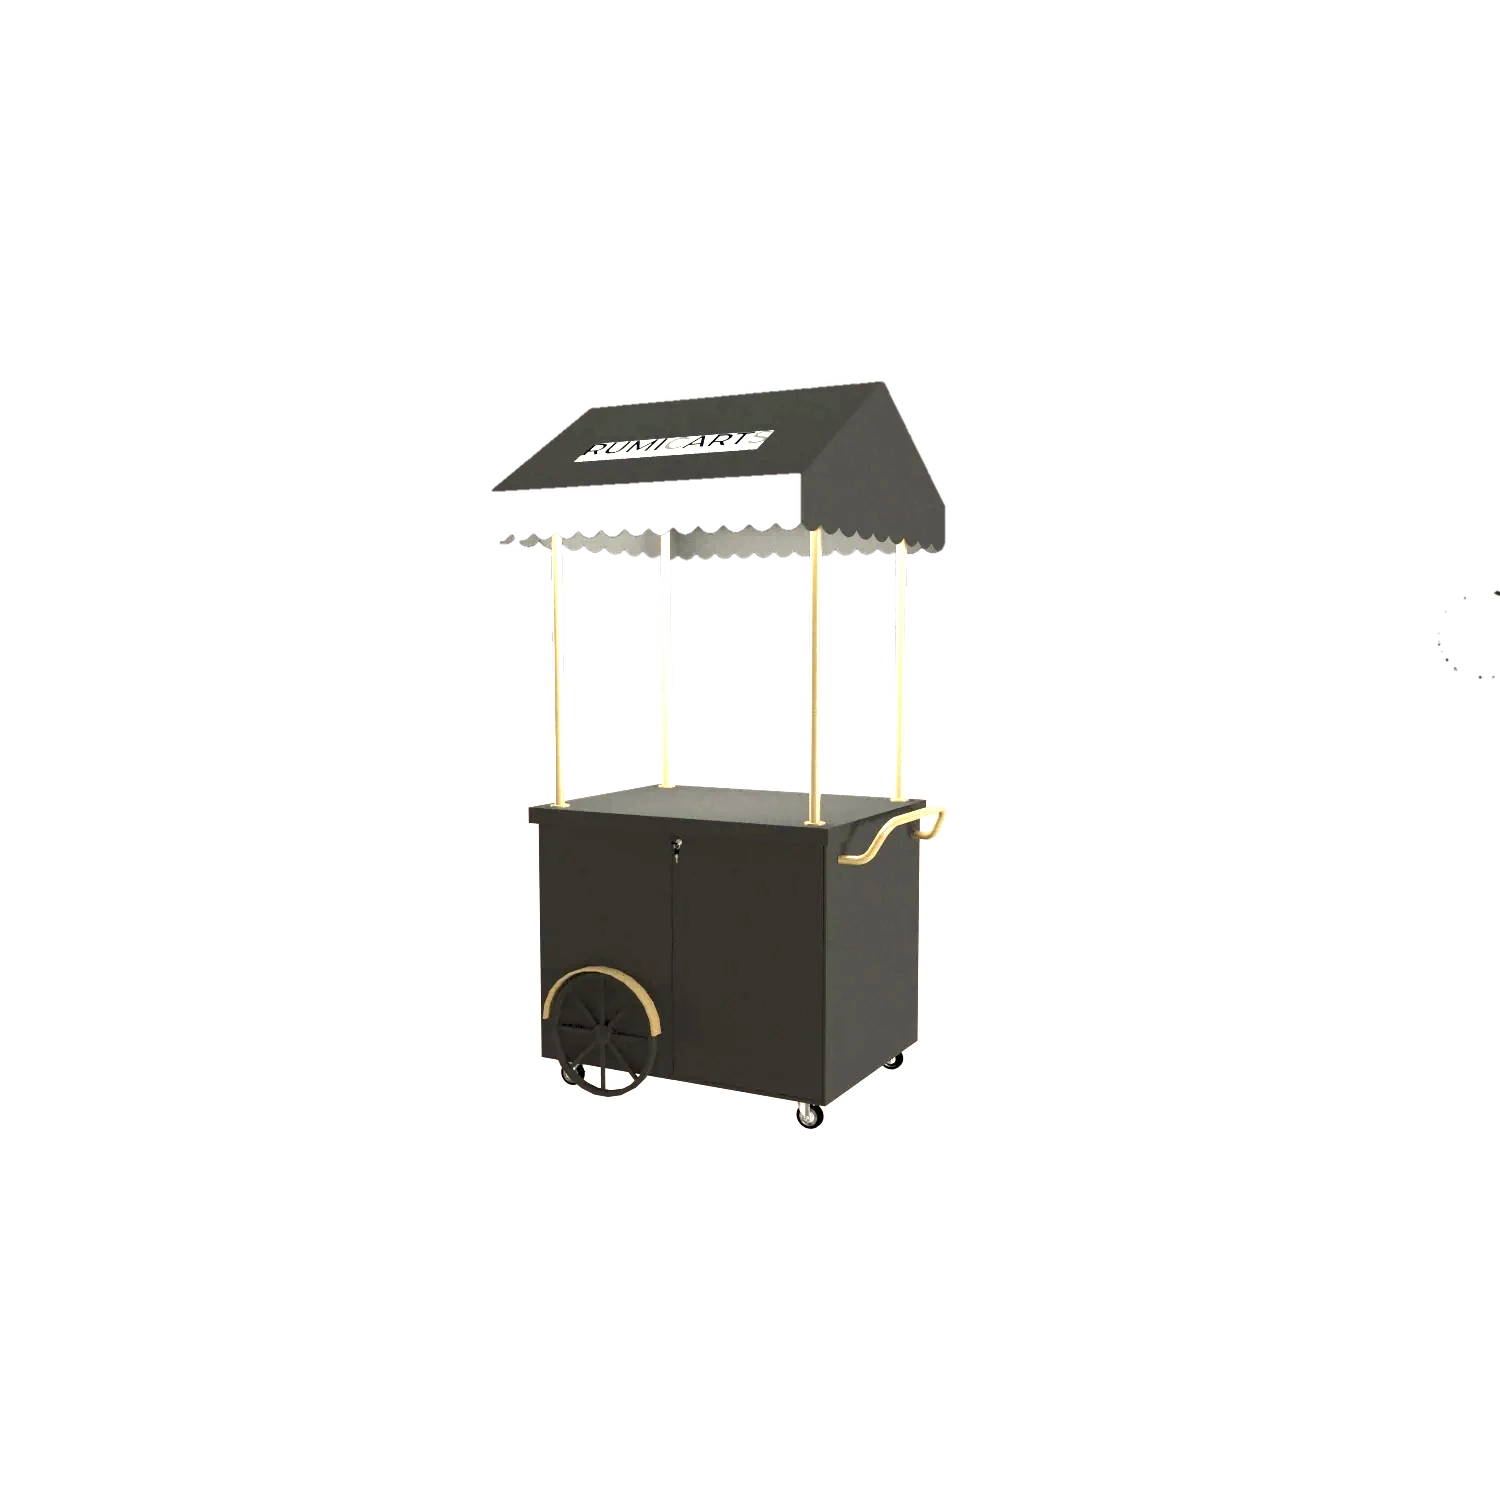
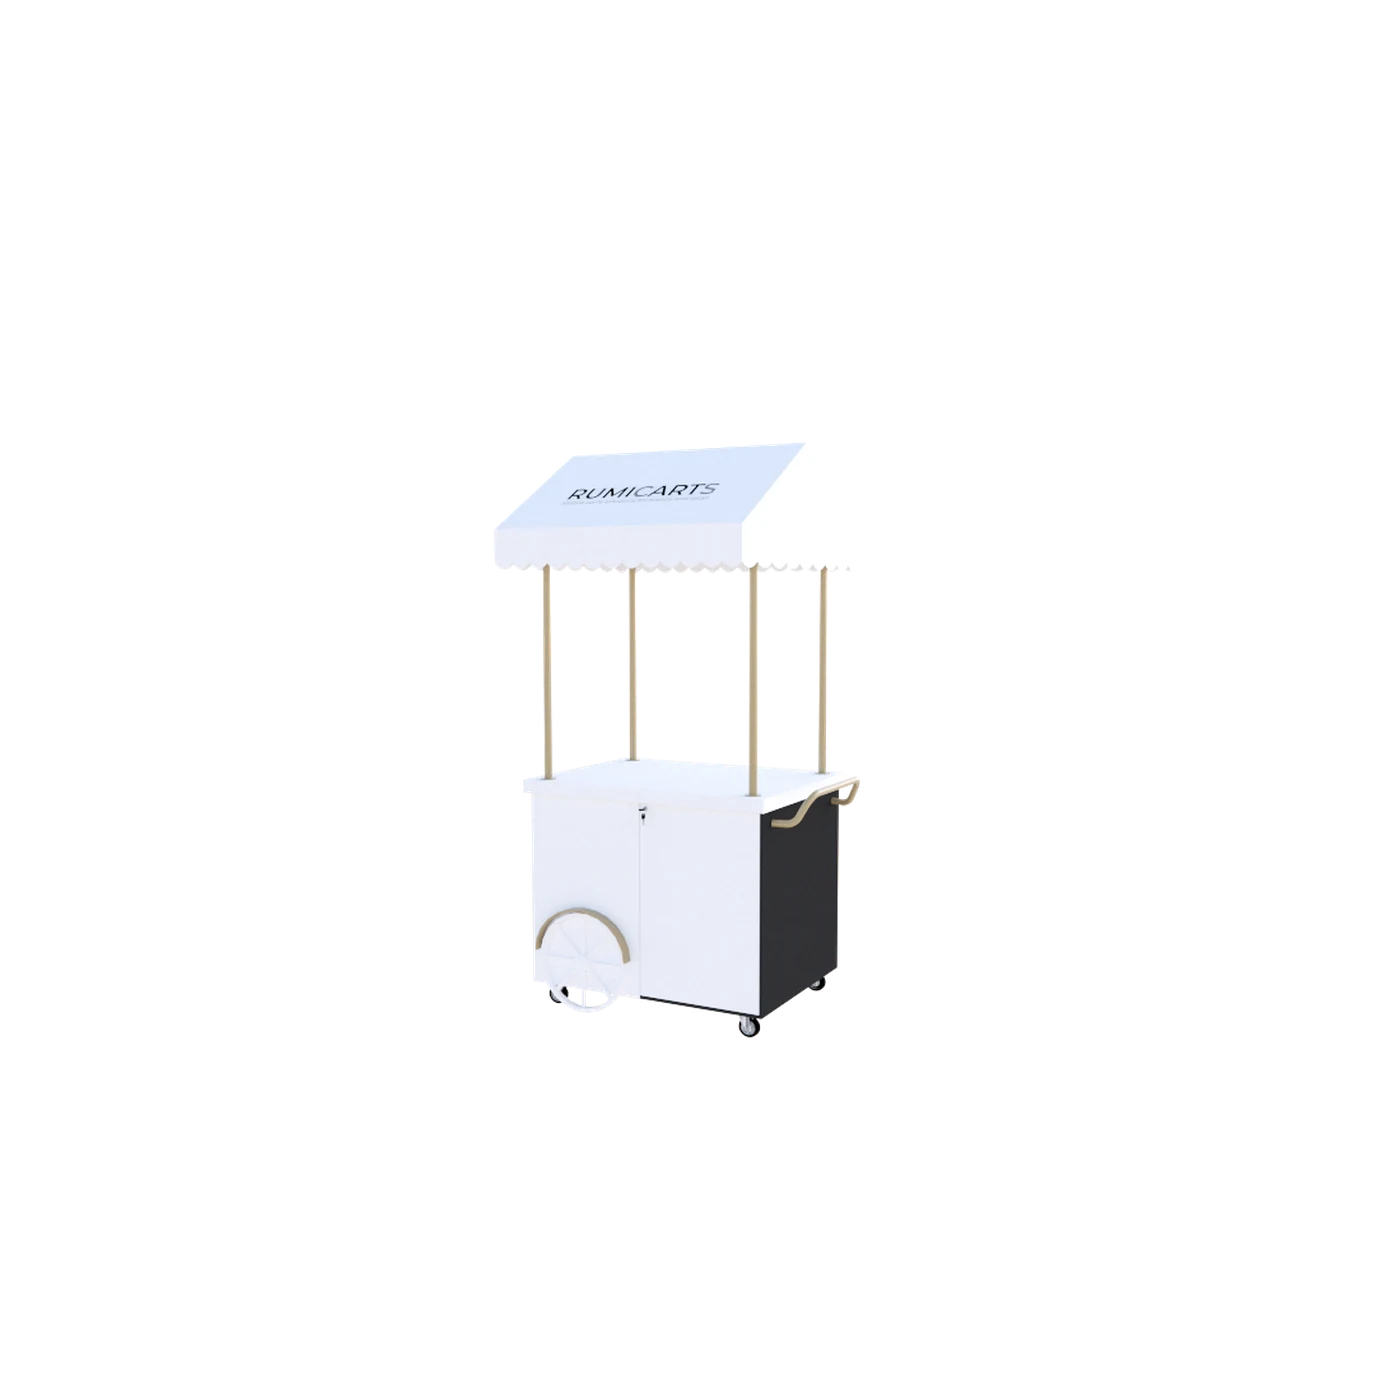
Renders(100 rafsiz): mavi/yesil/siyah renkler + renkli lake konfiguratore baglandi
4 renk (kirmizi onceden) x 7 aci x mat+lake tamam. Siyah mat/lake cok net (piano-black).
realLake: 100 rafsiz (/renders) renkli lake de gercek webp kullanir (CSS yerine);
previewSrc renkli dalina lakeSuffix eklendi. 100 rafli renkli lake yok -> CSS devam.

Changed region(s): [[0.3379, 0.2457, 0.645, 0.7679]]

diff --git a/src/components/CustomizeDialog.tsx b/src/components/CustomizeDialog.tsx
@@ -194,17 +194,19 @@ export function CustomizeDialog({ product, open, onOpenChange }: Props) {
   // Gerçek Lake render'ı (V-Ray gövde reflection) beyaz sette var: 100 raflı (/renders/100-rafli)
   // ve 100 rafsız (kök /renders). Orada CSS lake filtresi yerine gerçek -lake webp kullanılır;
   // diğer setlerde CSS devam eder.
+  // Gerçek lake webp'leri: 100 rafsız (/renders) hem beyaz hem renkli; 100 raflı (/renders/100-rafli)
+  // sadece beyaz (renkli lake render'ı henüz yok, orada CSS devam eder).
   const realLake =
     isLake &&
-    (renderBase === "/renders/100-rafli" || renderBase === "/renders") &&
-    !COLOR_RENDER_IDS.has(colorId) &&
     !hasAsset &&
-    !metalActive;
+    !metalActive &&
+    (renderBase === "/renders" ||
+      (renderBase === "/renders/100-rafli" && !COLOR_RENDER_IDS.has(colorId)));
   const lakeSuffix = realLake ? "-lake" : "";
   const previewSrc = hasAsset
     ? `${renderBase}/hero-${angle}${variant}-nologo.webp`
     : COLOR_RENDER_IDS.has(colorId)
-      ? `${renderBase}/hero-${colorId}-${angle}${variant}.webp`
+      ? `${renderBase}/hero-${colorId}-${angle}${variant}${lakeSuffix}.webp`
       : metalActive
         ? `${renderBase}/hero-${angle}-metal-${selection.metalRengi}.webp`
         : `${renderBase}/hero-${angle}${variant}${lakeSuffix}.webp`;
